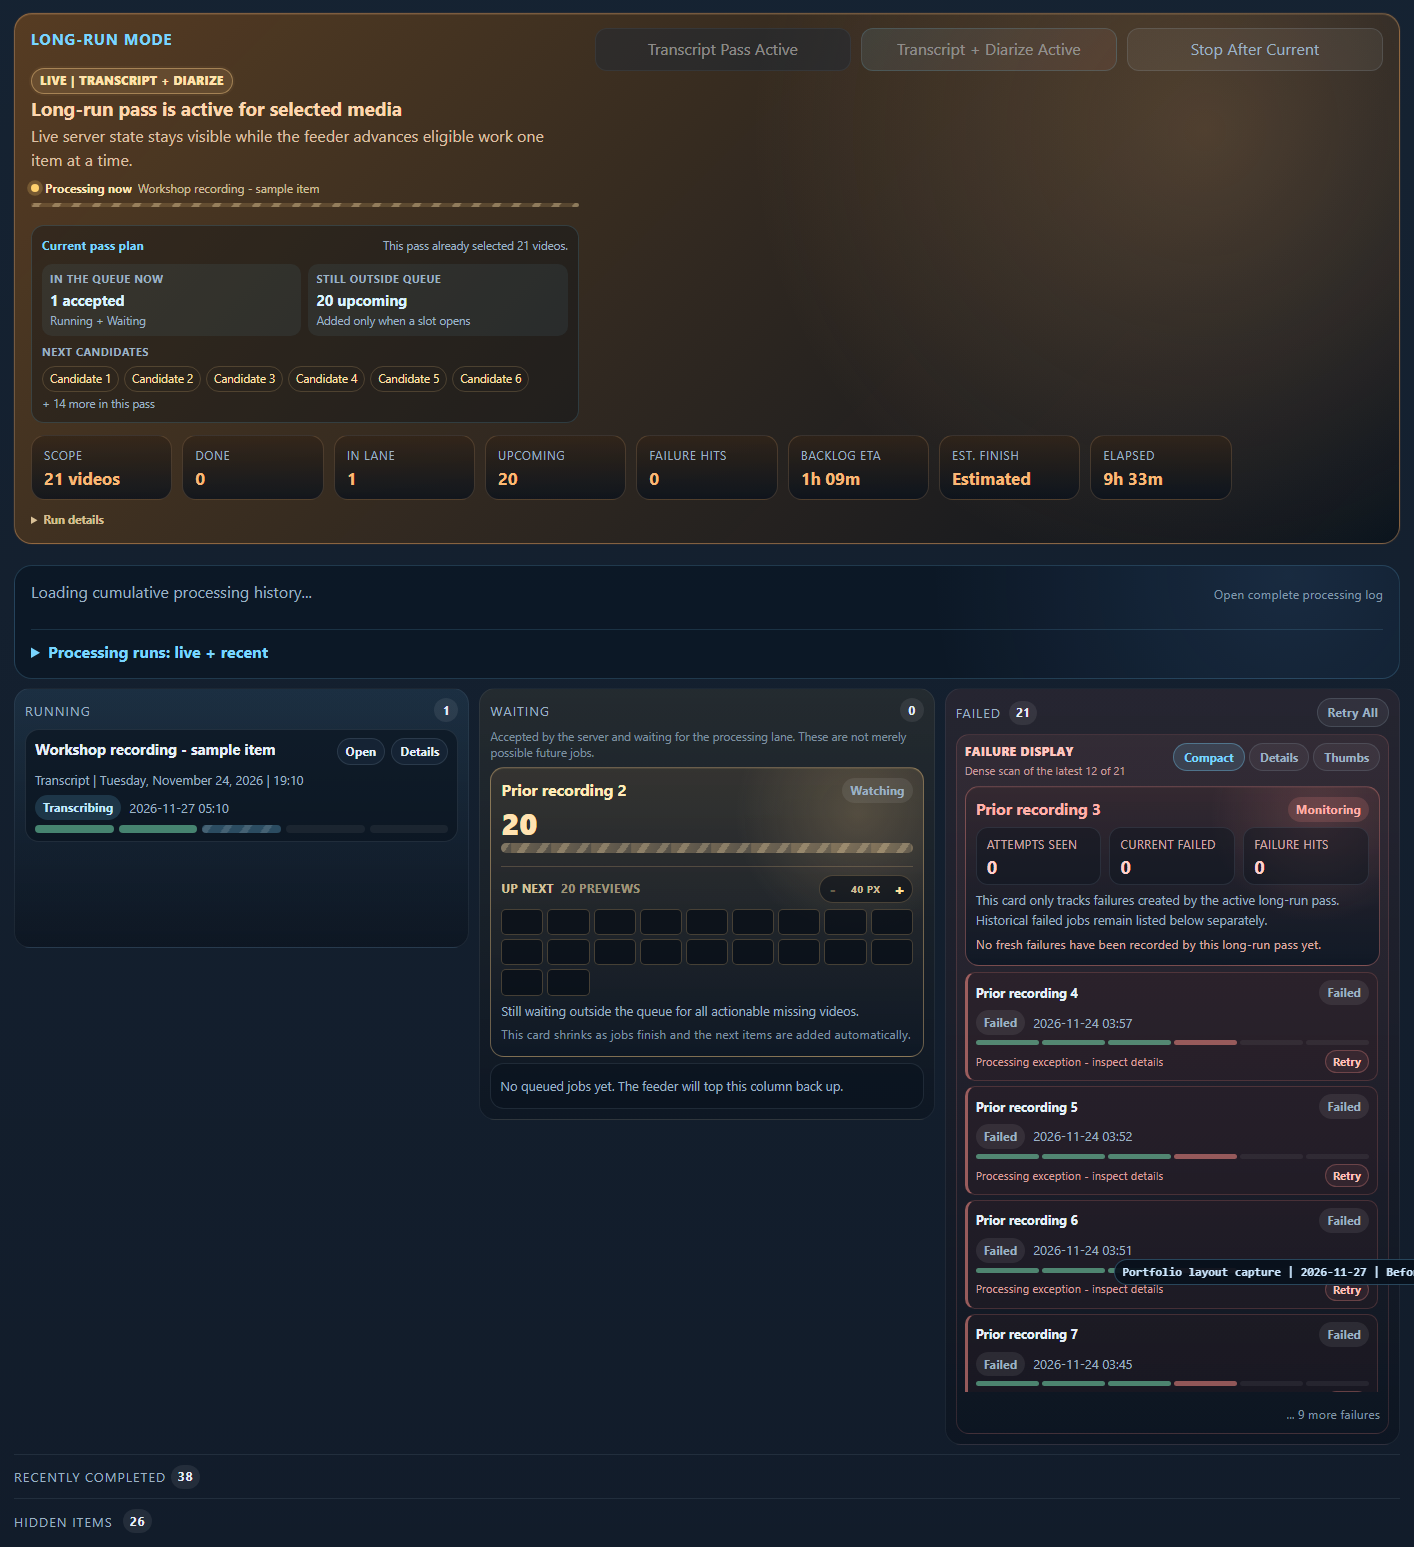
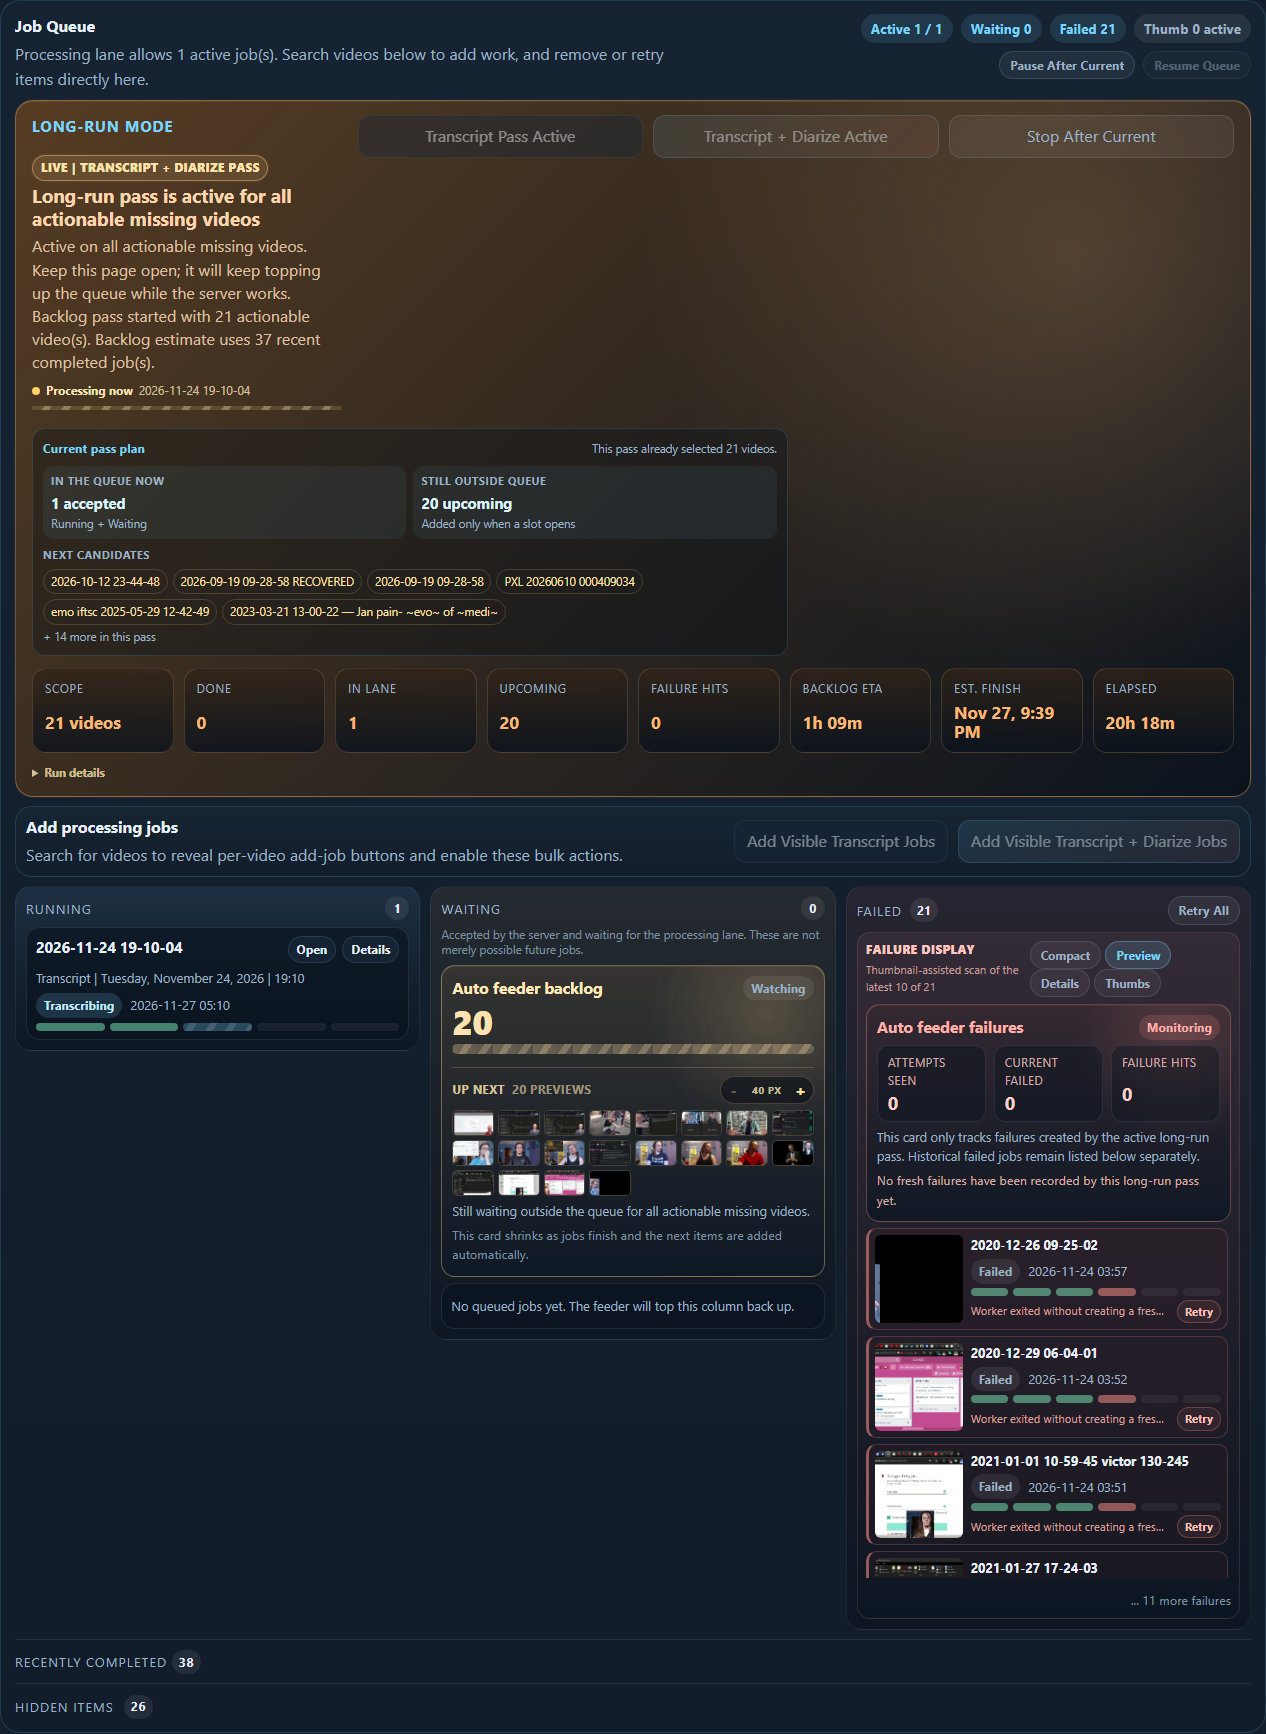
docs: revise queue console design evidence

diff --git a/docs/design-notes/design-changes.md b/docs/design-notes/design-changes.md
@@ -1,9 +1,11 @@
-# Queue Console Design Note
+# Design Changes
 
 **Decision date:** 2026-11-27  
 **Scope:** Long-run processing controls, queue visibility, failure triage, and processing-history placement.
 
-## Problem
+## Queue Console Design Note
+
+### Problem
 
 The original queue area mixed two different tasks:
 
@@ -12,7 +14,7 @@ The original queue area mixed two different tasks:
 
 Both are useful, but their combined vertical layout made the operational task less clear. A user had to scan past historical information before reaching current queue state, and start controls did not make an active durable pass obvious after refresh.
 
-## Decision
+### Decision
 
 Use an operational console for the live queue and move lifetime history into a separate collapsed audit disclosure below it.
 
@@ -28,34 +30,35 @@ This separates three terms that previously looked interchangeable:
 - **Waiting:** already accepted by the server and waiting for a lane.
 - **Upcoming:** eligible for the active pass but deliberately outside the server queue until capacity opens.
 
-## Before and After
+### Before and After
 
 ### Before - 2026-11-27
 
 ![Before: long-run controls and audit history share one flow](../assets/img/portfolio/queue-console-before-2026-11-27.png)
 
-The long-run title, controls, plan, metric strip, and lifetime history competed for the same queue surface. The controls occupied a large horizontal region without enough live context, while the audit area broke the path to the live lanes.
+The long-run title, controls, plan, metric strip, and lifetime history competed for the same queue surface. The plan was also constrained to only part of the available width, leaving a visibly empty third column while operational context was compressed.
 
 ### After - 2026-11-27
 
 ![After: horizontal live queue console](../assets/img/portfolio/queue-console-after-2026-11-27.png)
 
-The top of the queue now remains dedicated to current work. Server-backed state is reapplied on refresh: an active pass keeps start choices disabled, names the active pass, keeps the stop action available, and shows a quiet activity signal. Historical metrics remain available but no longer sit between the controls and the queue.
+The top of the queue now remains dedicated to current work. A two-zone layout gives live run identity a stable left rail and gives controls plus the work plan every remaining horizontal pixel. Server-backed state is reapplied on refresh: an active pass keeps start choices disabled, names the active pass, keeps the stop action available, and shows a quiet activity signal. Historical metrics remain available but no longer sit between the controls and the queue.
 
-## Failure Triage
+### Failure Triage
 
 The failure section uses a labelled display container so the relationship is visible:
 
-- **Compact** is the default: dense scan, short error excerpt, retry affordance, and stage trace.
+- **Compact** is the default: dense scan, one phase label, short error excerpt, retry affordance, and stage trace.
+- **Preview** adds a landscape thumbnail while retaining Compact's diagnosis/retry flow.
 - **Details** preserves full item cards when diagnosis is necessary.
 - **Thumbs** changes the same failure collection into a visual grid.
 
-The selection persists locally. The auto-feeder failure tracker also supports a small thumbnail grid when failures belong to the active pass; historical failures remain separately identifiable.
+The selection persists locally. The auto-feeder failure tracker also supports a small thumbnail grid when failures belong to the active pass; historical failures remain separately identifiable. The documented captures intentionally retain local thumbnails rather than obscuring them.
 
-## Accessibility and Motion
+### Accessibility and Motion
 
 Activity is communicated by text and state as well as restrained animation. The live chip, current-item label, and button enablement continue to explain the state when motion is reduced. Animations are disabled for `prefers-reduced-motion`.
 
-## Tradeoff
+### Tradeoff
 
 Lifetime processing metrics are still relevant to the workspace, but they are not a command surface. Keeping them adjacent but collapsed retains discoverability without forcing operational users through an audit report on every queue visit.

diff --git a/README.md b/README.md
@@ -45,15 +45,15 @@ A durable feeder can advance eligible work one item at a time while exposing sco
 
 ### Queue console evolution
 
-**Before - 2026-11-27.** Live controls, a prospective backlog plan, and lifetime audit history competed for the same vertical flow.
+**Before - 2026-11-27.** The live plan stopped short of the available width, leaving a dead third column beside operational context.
 
 ![Before: long-run controls and lifetime history share one queue flow](docs/assets/img/portfolio/queue-console-before-2026-11-27.png)
 
-**After - 2026-11-27.** The operational view is a horizontal console: durable live state, active-item feedback, upcoming work, and stateful controls lead; processing history moves to a collapsed audit disclosure outside the live queue.
+**After - 2026-11-27.** The operational view is a full-width console: durable live state, active-item feedback, upcoming work, and stateful controls share the available horizontal space; processing history moves to a collapsed audit disclosure outside the live queue.
 
 ![After: horizontal long-run queue console with grouped failure display](docs/assets/img/portfolio/queue-console-after-2026-11-27.png)
 
-The failure mode selector now belongs to a labeled failure-display region and changes only the cards immediately below it. Compact mode supports rapid triage, details preserves error context, and thumbs provides a visual scan. The screenshots are sanitized, headless portfolio captures.
+The failure mode selector now belongs to a labeled failure-display region and changes only the cards immediately below it. Compact mode supports rapid triage, Preview adds thumbnails without expanding into full cards, Details preserves error context, and Thumbs provides a visual scan. The captures are headless dashboard renders with local thumbnail content intentionally retained.
 
 ### Connected ingest roots
 
@@ -297,7 +297,7 @@ The following are intentional next steps, not claims of completed functionality:
 
 ## Design Notes
 
-The [queue-console design note](docs/design-notes/queue-console.md) records the 2026-11-27 decision to separate live queue operation from lifetime audit history, with dated, sanitized before/after captures.
+The [design changes note](docs/design-notes/design-changes.md) records the 2026-11-27 queue decisions: separating live operation from lifetime audit history, using full-width live-plan space, and keeping failure triage dense but inspectable.
 
 ## Why This Exists
 
